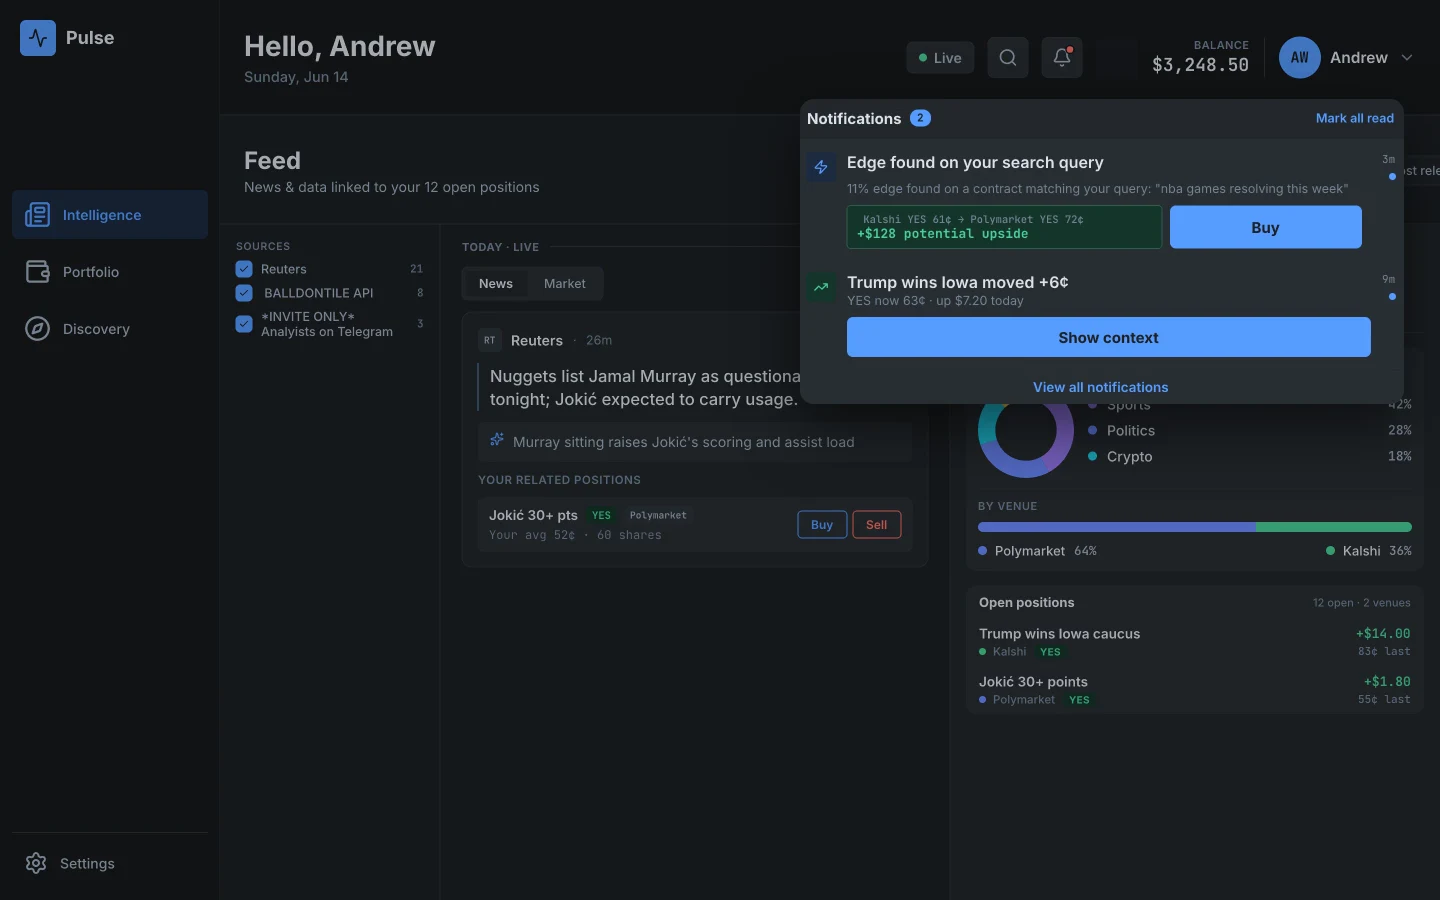
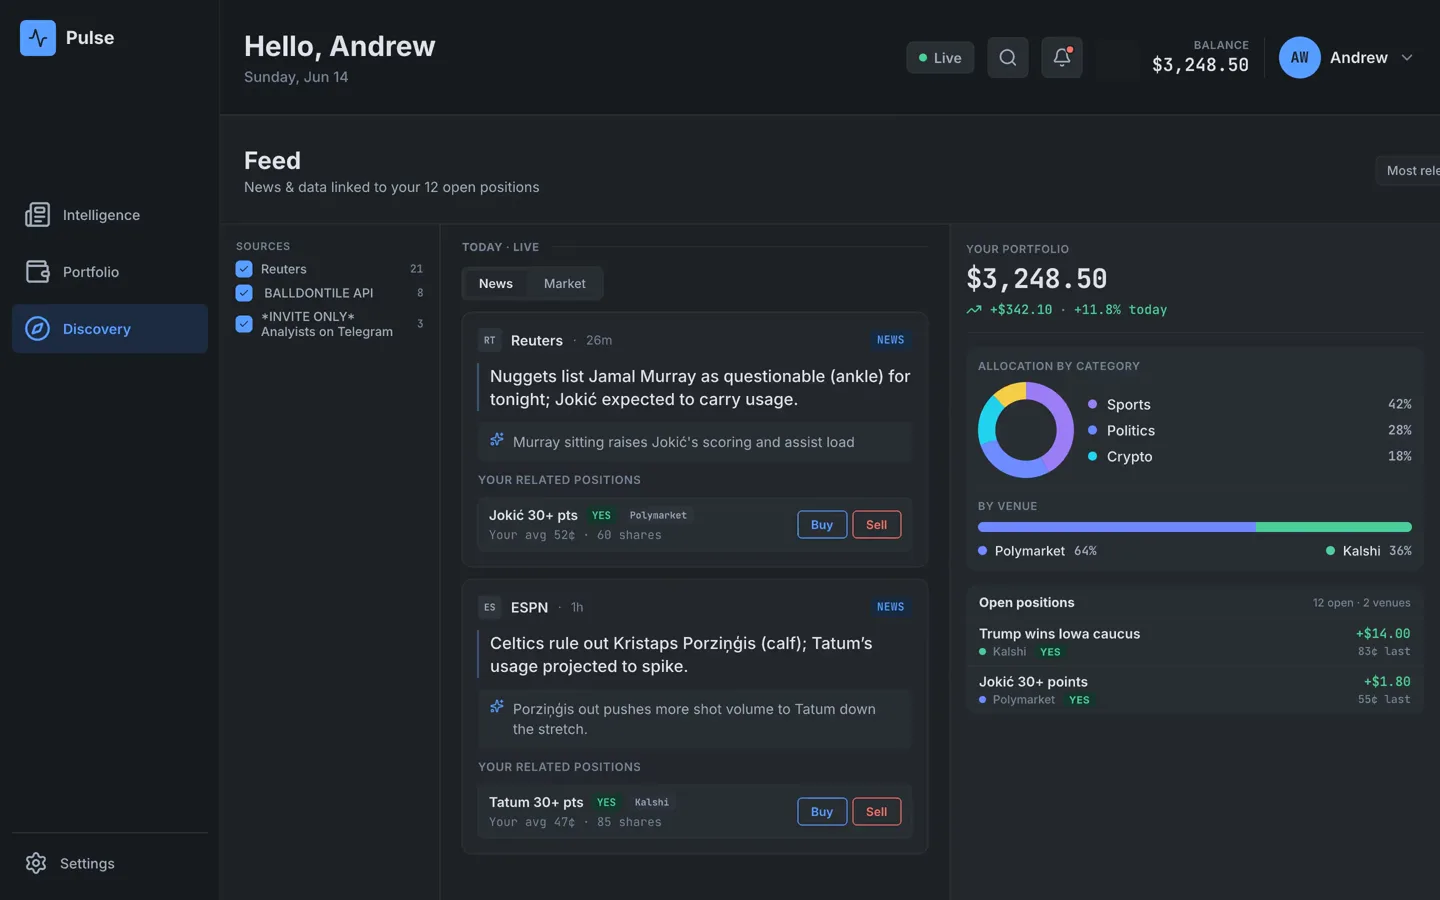
Update trailer to v2 + showcase copy/emphasis tweaks
- Swap in compressed v2 trailer (pulse-trailer.mp4) and matching poster
- Refresh notif-reveal video + poster
- Bold "find cross-venue arbitrage" and "visibility and insight" bullets
- Add bold agentic-era bottom line beneath the showcase bullets

diff --git a/public/index.html b/public/index.html
@@ -87,8 +87,8 @@
                   <path d="M20 6 9 17l-5-5" />
                 </svg>
               </span>
-              <span class="sc-bullet-label">Search for new bets in plain English, and find cross-venue
-                arbitrage</span>
+              <span class="sc-bullet-label">Search for new bets in plain English, and <strong>find cross-venue
+                  arbitrage</strong></span>
             </li>
             <li class="sc-bullet">
               <span class="sc-check">
@@ -97,7 +97,8 @@
                   <path d="M20 6 9 17l-5-5" />
                 </svg>
               </span>
-              <span class="sc-bullet-label">Unparalleled visibility and insight on your entire portfolio — single-venue
+              <span class="sc-bullet-label">Unparalleled <strong>visibility and insight</strong> on your entire
+                portfolio — single-venue
                 or multi-venue</span>
             </li>
             <li class="sc-bullet">
@@ -119,6 +120,7 @@
               <span class="sc-bullet-label">Know why each position moves, and what to do, before anyone else</span>
             </li>
           </ul>
+          <p class="sc-bottomline">Designed for the agentic era — built for AI agents to plug in.</p>
         </div>
         <div class="showcase-window-col">
           <div class="app-window sc-shot">
@@ -180,7 +182,7 @@
       <div class="outro-stack fx-reveal" id="outro-stack">
         <h2 class="outro-heading">The Bloomberg Terminal<br />for prediction markets.</h2>
         <p class="outro-sub">
-          One cross-venue command center for your whole portfolio — whether you
+          One cross-venue AI-native command center for your whole portfolio — whether you
           trade for a living or you're just getting started.
         </p>
       </div>

diff --git a/public/styles.css b/public/styles.css
@@ -326,6 +326,13 @@ button {
   font-size: 15px;
   color: var(--color-fg-muted);
 }
+.sc-bottomline {
+  margin-top: 22px;
+  font-size: 16px;
+  font-weight: 700;
+  line-height: 1.5;
+  color: var(--color-fg);
+}
 .showcase-window-col {
   position: relative;
   min-width: 0;